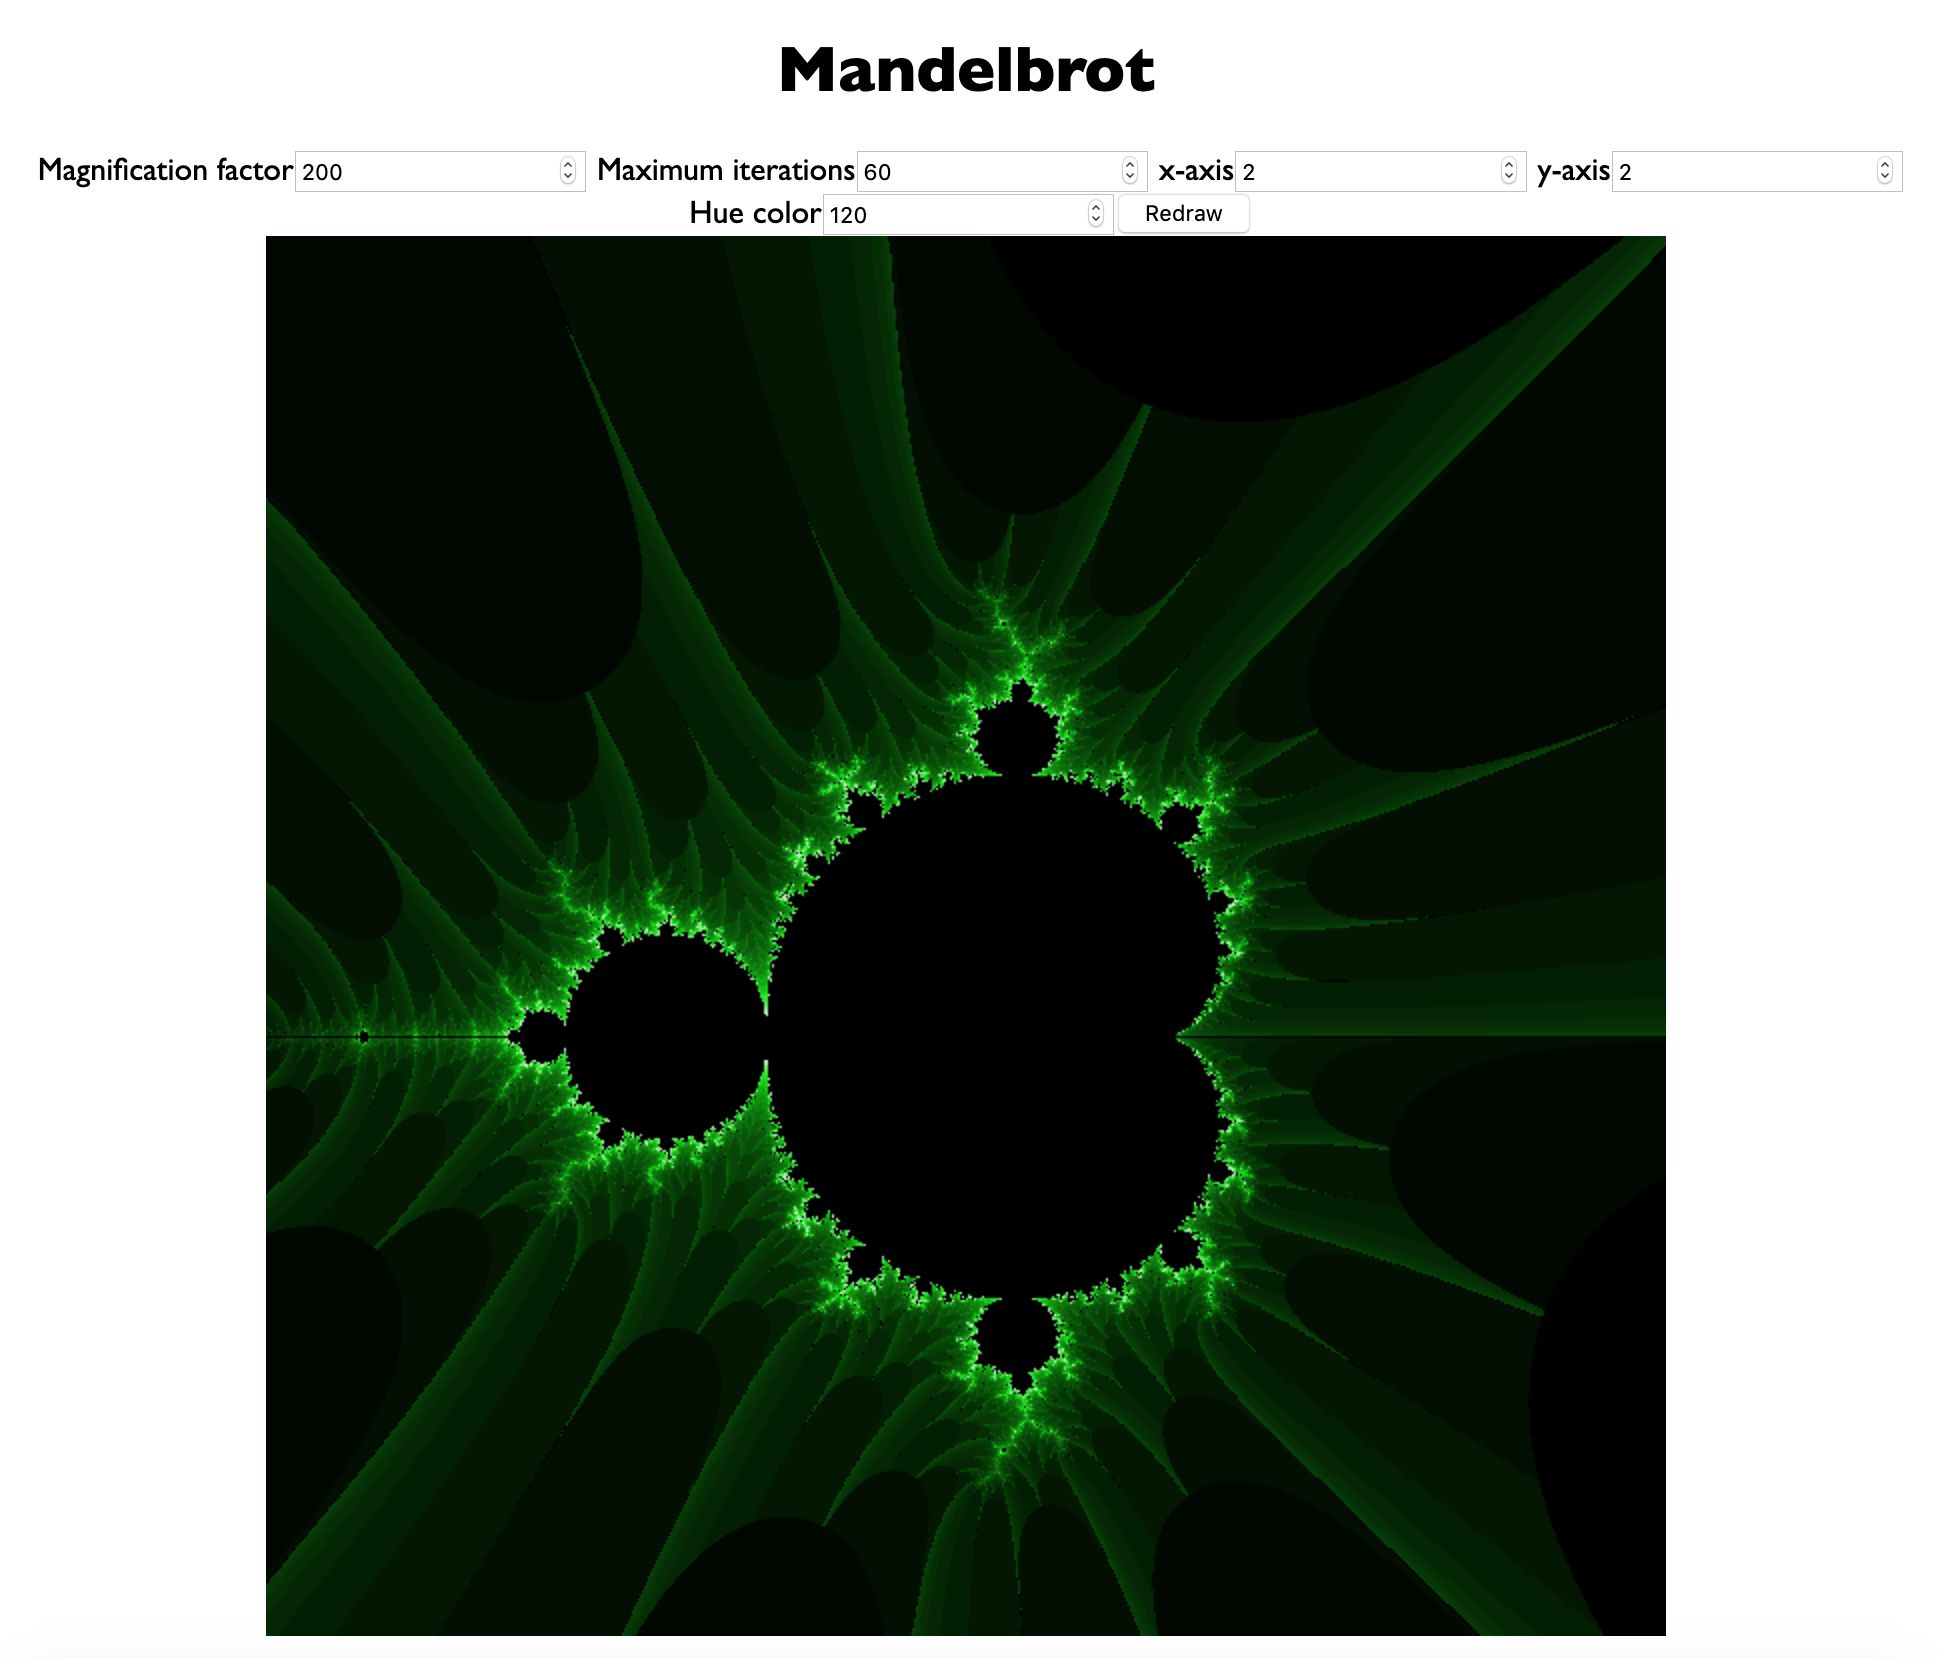
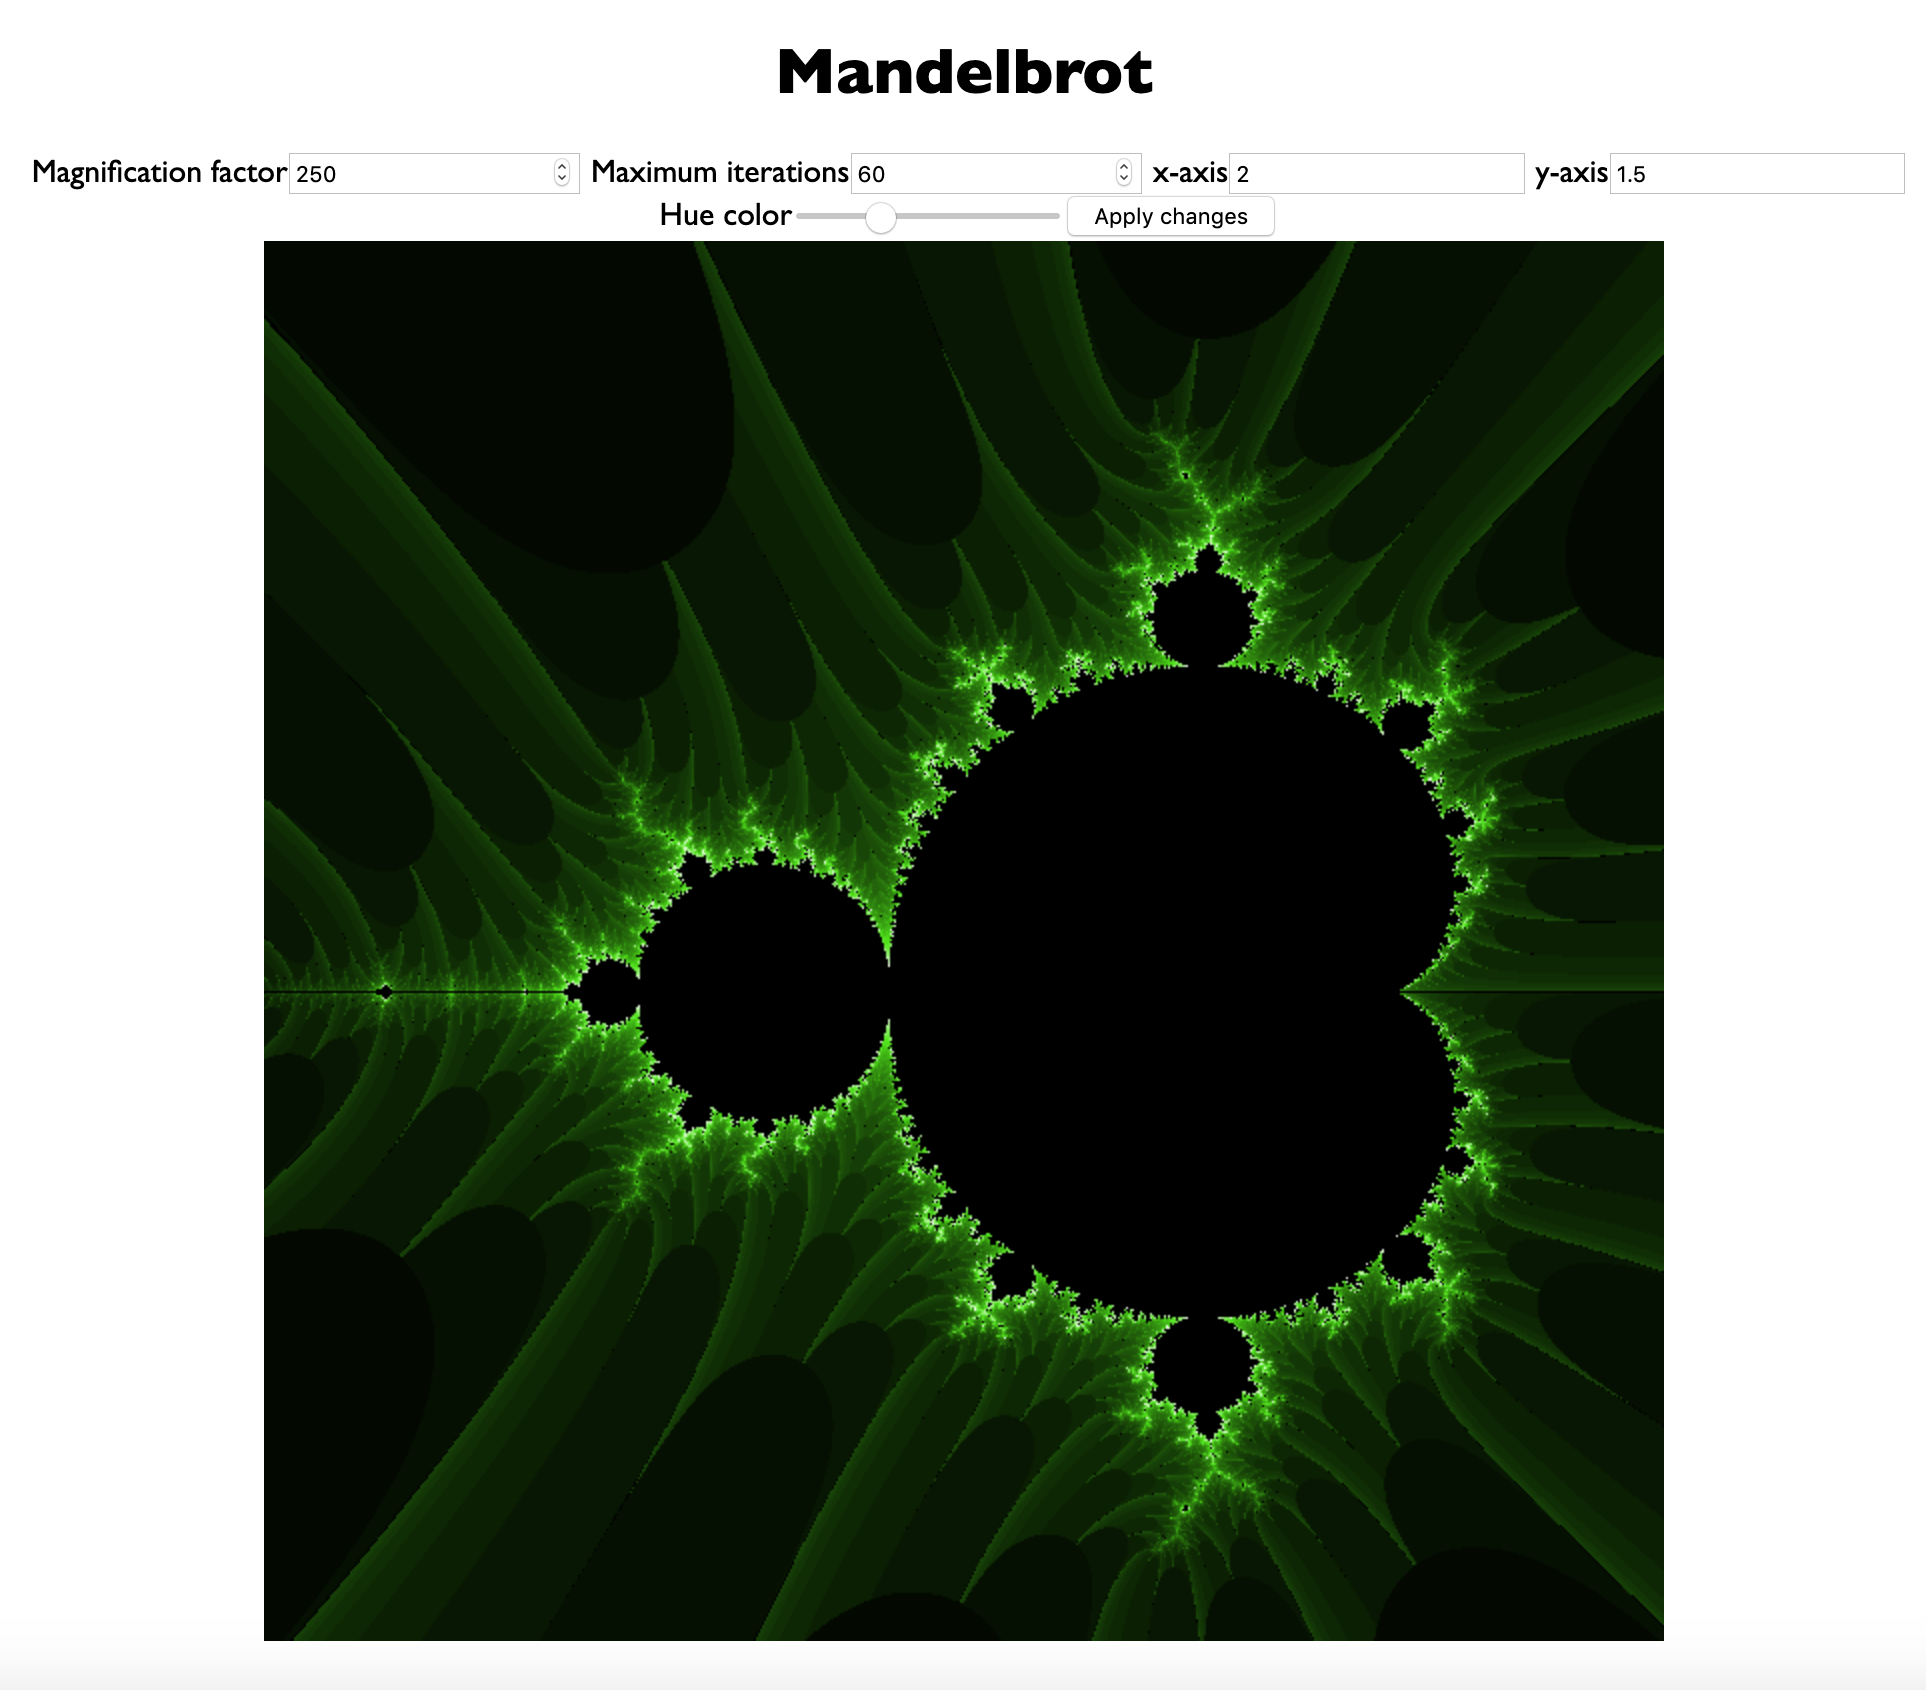
Zoom implemented

diff --git a/script.js b/script.js
@@ -1,23 +1,34 @@
 // default settings
-const mandelbrotImage = {};
-setMandelbrotImageSettings();
 const CANVAS_WIDTH = 700;
 const CANVAS_HEIGHT = 700;
 
-let myCanvas = document.createElement("canvas");
+// document elements
+const iterationsElement = document.getElementById("iterations");
+const xPlaneElement = document.getElementById("xplane");
+const yPlaneElement = document.getElementById("yplane");
+const magnificationElement = document.getElementById("magnificationFactor");
+const hueElement = document.getElementById("hue");
+
+// create object for mandelbrot properties
+const mandelbrotImage = {};
+setMandelbrotImageSettings();
+
+// create canvas
+const myCanvas = document.createElement("canvas");
 myCanvas.width = CANVAS_WIDTH;
 myCanvas.height = CANVAS_HEIGHT;
+myCanvas.addEventListener("mousedown", function(e) {
+  getCursorPosition(myCanvas, e);
+});
 document.querySelector(".content").appendChild(myCanvas);
 const ctx = myCanvas.getContext("2d");
 
 function setMandelbrotImageSettings() {
-  mandelbrotImage.MAX_ITERATIONS = document.getElementById("iterations").value;
-  mandelbrotImage.magnificationFactor = document.getElementById(
-    "magnificationFactor"
-  ).value;
-  mandelbrotImage.panX = document.getElementById("xplane").value;
-  mandelbrotImage.panY = document.getElementById("yplane").value;
-  mandelbrotImage.hue = document.getElementById("hue").value;
+  mandelbrotImage.MAX_ITERATIONS = iterationsElement.value;
+  mandelbrotImage.magnificationFactor = magnificationElement.value;
+  mandelbrotImage.panX = parseFloat(xPlaneElement.value);
+  mandelbrotImage.panY = parseFloat(yPlaneElement.value);
+  mandelbrotImage.hue = hueElement.value;
 }
 
 function drawCanvas() {
@@ -68,6 +79,39 @@ function checkIfBelongsToMandelbrotSet(x, y) {
     }
   }
   return 0; // in Mandelbrot set
+}
+
+function getCursorPosition(canvas, event) {
+  const rect = canvas.getBoundingClientRect(); //  size of an element and its position relative to the viewport
+  const x = event.clientX - rect.left;
+  const y = event.clientY - rect.top;
+  console.log("x: " + x + " y: " + y);
+  mandelbrotImage.magnificationFactor =
+    parseInt(mandelbrotImage.magnificationFactor) + 50;
+  setUIElementsValue(x, y, mandelbrotImage.magnificationFactor);
+  drawCanvas();
+}
+
+function setUIElementsValue(x, y, magnification) {
+  const xNormalized = normalize(x, parseFloat(xPlaneElement.value));
+  const yNormalized = normalize(y, parseFloat(yPlaneElement.value));
+  xPlaneElement.value = xNormalized;
+  mandelbrotImage.panX = xNormalized;
+  yPlaneElement.value = yNormalized;
+  mandelbrotImage.panY = yNormalized;
+  magnificationElement.value = magnification;
+}
+
+function normalize(coordinate, value) {
+  let newValue;
+  const ratio = coordinate / CANVAS_WIDTH;
+  if (ratio < 0.5) {
+    newValue = value + 0.1;
+  } else {
+    newValue = value - 0.1;
+  }
+
+  return newValue;
 }
 
 function redrawCanvas() {

diff --git a/index.html b/index.html
@@ -23,14 +23,14 @@
         id="iterations"
       />
       <label for="x-axis">x-axis</label>
-      <input type="number" maxlength="3" value="2" name="x-axis" id="xplane" />
+      <input type="text" value="2" name="x-axis" id="xplane" />
       <label for="y-axis">y-axis</label>
-      <input type="number" maxlength="3" value="2" name="y-axis" id="yplane" />
+      <input type="text" value="2" name="y-axis" id="yplane" />
     </div>
     <div class="refresh-and-color">
       <label for="hue">Hue color</label>
-      <input type="number" maxlength="3" value="240" name="hue" id="hue" />
-      <button onclick="redrawCanvas()">Redraw</button>
+      <input type="range" min="0" max="360" value="240" name="hue" id="hue" />
+      <button onclick="redrawCanvas()">Apply changes</button>
     </div>
     <div class="content">
       <script src="script.js"></script>

diff --git a/README.md b/README.md
@@ -4,3 +4,4 @@ Mandelbrot fractal in Vanilla JS
 The algorithm behind the Mandelbrot is built according to the tutorial from [Progur](https://progur.com/2017/02/create-mandelbrot-fractal-javascript.html)
 
 ![Mandelbrot fractal](mandelbrot.png)
+![Mandelbrot fractal zoomed](mandelbrot_zoomed.png)
